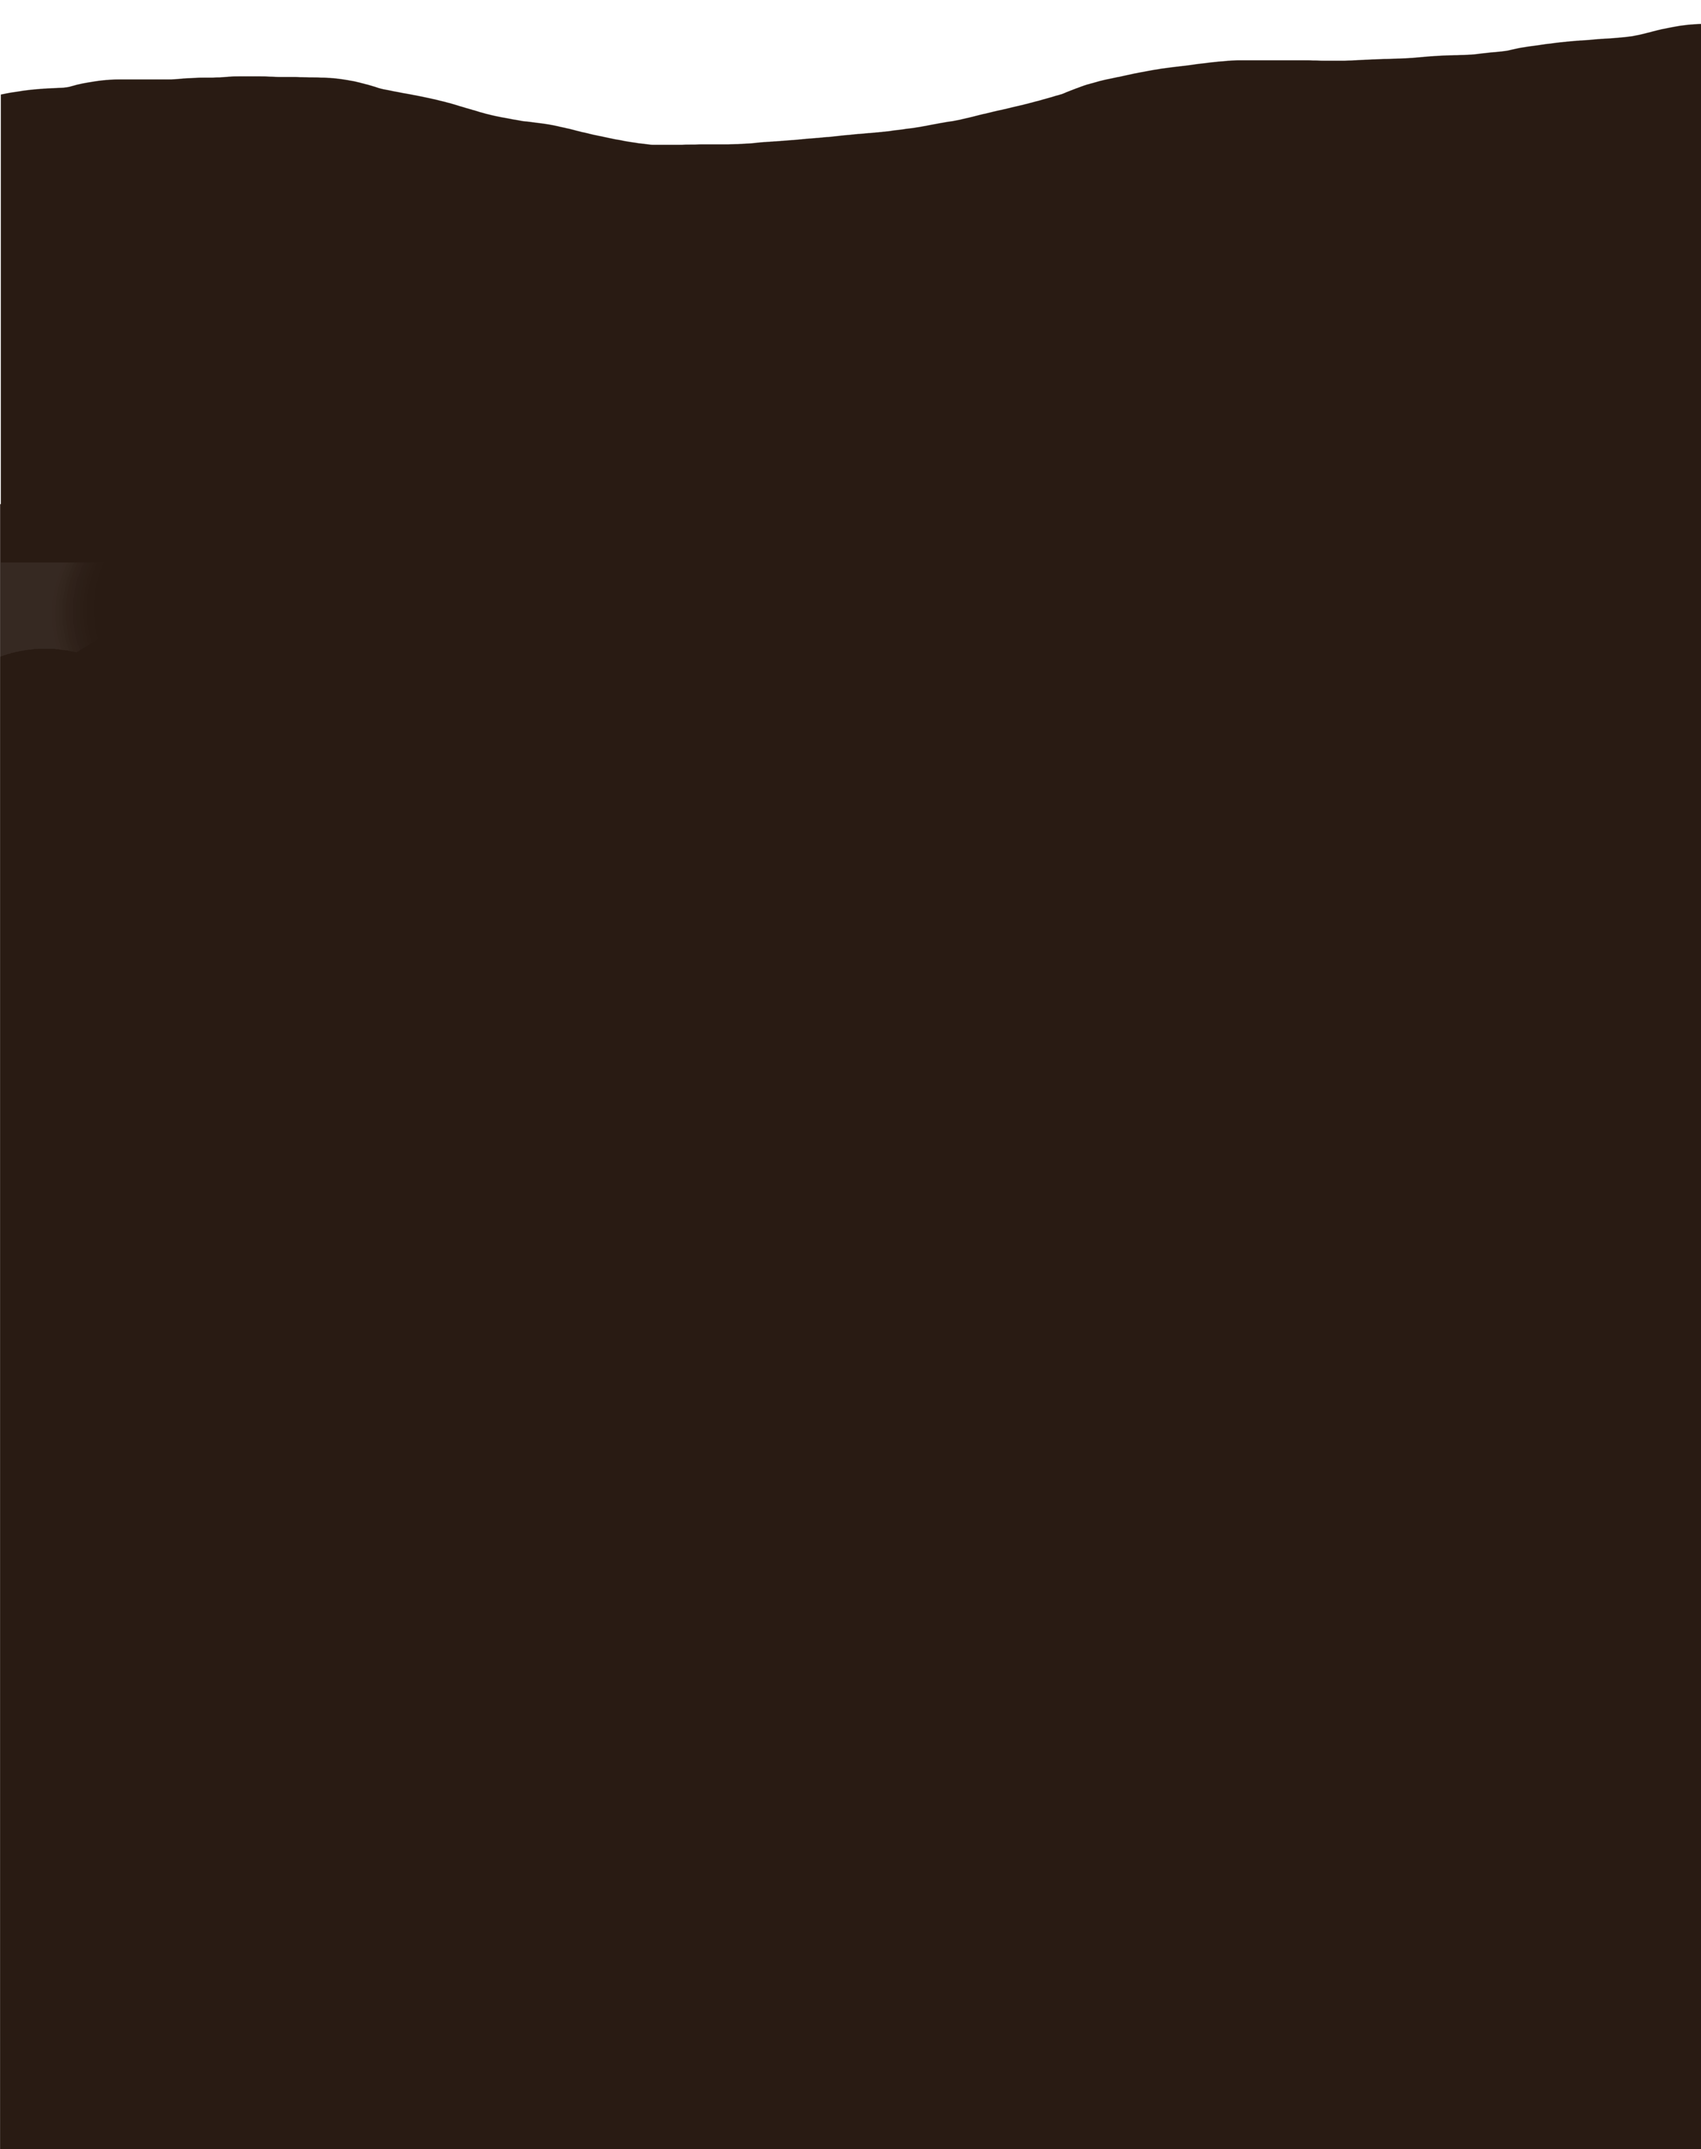
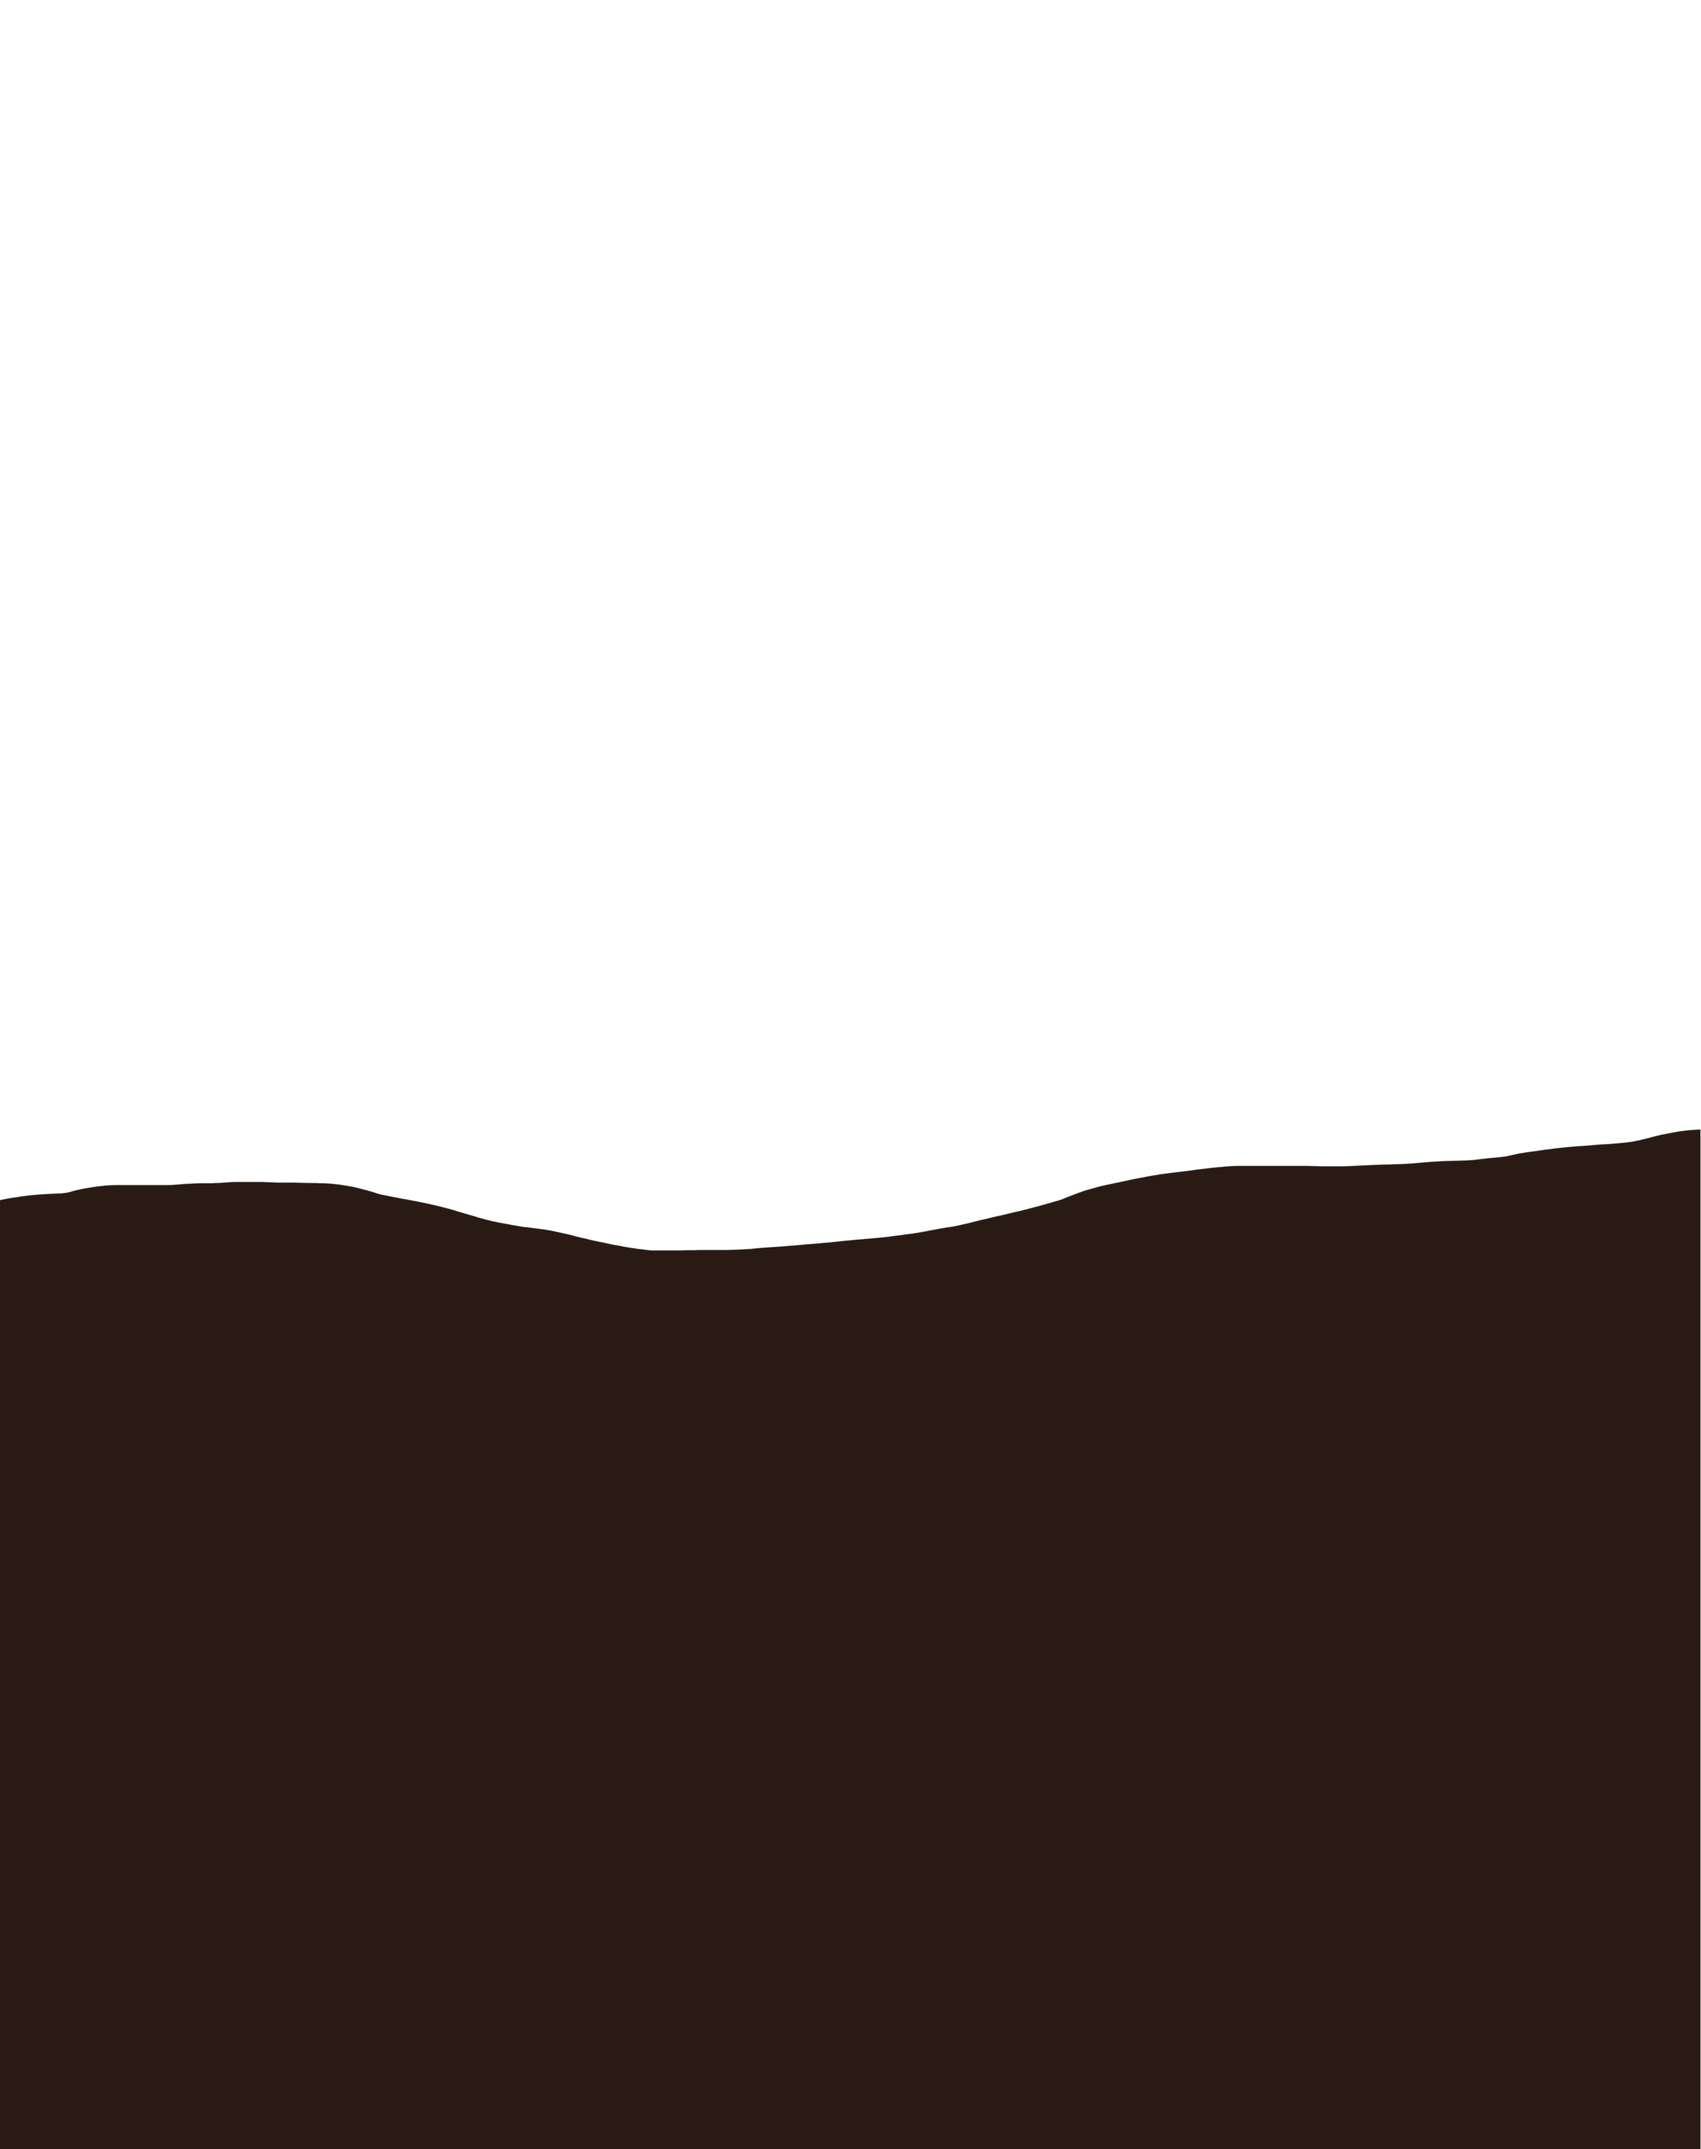
added full desktop parallax :D

diff --git a/src/styles/global.css b/src/styles/global.css
@@ -11,8 +11,7 @@
 body {
     font-family: DefaultFont;
     background-color: rgb(64,64,64);
-    margin-right: 10rem;
-    margin-left: 10rem;
+    
 }
 html::-webkit-scrollbar {
         display: none;
@@ -24,6 +23,8 @@ html::-webkit-scrollbar {
     justify-content: flex-start;
     align-items: center;
     gap: 1rem;
+    margin-right: 10rem;
+    margin-left: 10rem;
 }
 
 .navheader h1 {
@@ -57,6 +58,8 @@ html::-webkit-scrollbar {
     border-image-slice: 13 fill;
 
     margin-bottom: 1rem;
+    margin-right: 10rem;
+    margin-left: 10rem;
 }
 
 .navbar a {
@@ -100,6 +103,8 @@ html::-webkit-scrollbar {
     border: 1rem solid transparent;
     border-image: url("../../assets/borders/panel-transparent-center-030-dark.png");
     border-image-slice: 13 fill;
+    margin-right: 10rem;
+    margin-left: 10rem;
 }
 
 .content a {
